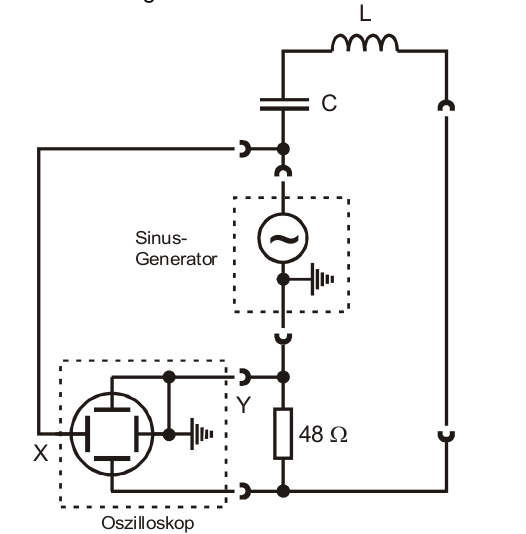
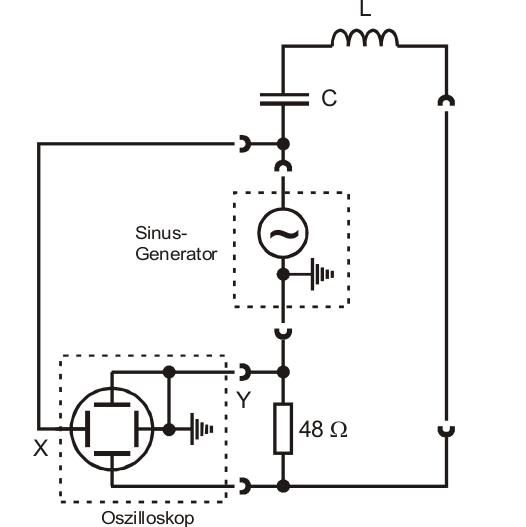
Bilder bearbeitet

diff --git a/Protokoll355.tex b/Protokoll355.tex
@@ -64,16 +64,37 @@ untersucht werden. Zusätzlich wird angenommen, dass sich die Frequenzen $\nu_+$
 
 \section{Aufbau und Durchf\"{u}hrung}
 \subsection{Vorbereitungen}
-Vor Beginn der Messungen müssen die Resoanzfrequnezen beider Schwinkreise aufeinander abgestimmt werden. Dazu wird die Schaltung wie in abbildung \ref{abb1} gezeigt aufgebaut. In einem der Kreise ein Kondensator mit variabler Kapazität verbaut. Mit dem Sinusgenerator wird nun der Kreis mit konstanter Kapazi\"at angeregt. Zunächst wird mit dem Oszilloskop im YT-Betrieb die Frequenz ermittelt bei der die gemessene Spannung $U_R$ maximal wird. Dann wird das Oszilloskop in den XY-Modus umgeschaltet die Resonanzfrequnz $\nu_{res}$ bestimmt. Diese zeichnet sich dadurch aus, dass $U_R$ und die Generatorspannung $U_0$ in Phase liegen und daher die angezeigte Lissajouz-Figur eine Gerade ist. Danach wird der Sinusgenerator an den zweiten Teil des Schwingkreises angeschlossen und mit der Frequenz $\nu_{res}$ angeregt. Nun wird auch dieser Kreis durch Verändern der variablen Kapazität in Resonanz gebracht. Dazu werden wie zuvor Lissajouz-figuren verwendet. 
+Vor Beginn der Messungen müssen die Resoanzfrequnezen beider Schwinkreise aufeinander abgestimmt werden. Dazu wird die Schaltung wie in abbildung \ref{abb1} gezeigt aufgebaut.
+\begin{figure}[htp]
+\centering
+\includegraphics[scale=0.5]{Abb/abb1.png}
+\caption{Schaltung zur Kalibrierung der Schwingkriese}
+\label{abb1}
+\end{figure}
+In einem der Kreise ein Kondensator mit variabler Kapazität verbaut. Mit dem Sinusgenerator wird nun der Kreis mit konstanter Kapazi\"at angeregt. Zunächst wird mit dem Oszilloskop im YT-Betrieb die Frequenz ermittelt bei der die gemessene Spannung $U_R$ maximal wird. Dann wird das Oszilloskop in den XY-Modus umgeschaltet die Resonanzfrequnz $\nu_{res}$ bestimmt. Diese zeichnet sich dadurch aus, dass $U_R$ und die Generatorspannung $U_0$ in Phase liegen und daher die angezeigte Lissajouz-Figur eine Gerade ist. Danach wird der Sinusgenerator an den zweiten Teil des Schwingkreises angeschlossen und mit der Frequenz $\nu_{res}$ angeregt. Nun wird auch dieser Kreis durch Verändern der variablen Kapazität in Resonanz gebracht. Dazu werden wie zuvor Lissajouz-figuren verwendet. 
 \subsection{Messung vom Schwebungs- und Schwingungsfrquenz}
-Für diesen Versuchsteil wird die Schaltung wie in Abbildung \ref{abb2} aufgebaut. Der linke Schwingkreis wird durch eine Rechteckspannung zu Schwingungen angeregt. Mit dem Oszilloskop wird nun die am Widerstand $R_??$ abfallende Spannung gemessen. So kann der im rechten Schwingkreis fließende Strom bestimmt. Bei verschieden Koppelkapazitäten $C_K$ wird nun das Verhältnis von Schwingungs- und Schwebungsfrequenz bestimmt. Dazu wird die Zahl $n$ der Schwingungsmaxima in einer Schwebungsperiode bestimmt. Es gilt:
+Für diesen Versuchsteil wird die Schaltung wie in Abbildung \ref{abb2} aufgebaut.
+\begin{figure}[h!]
+\centering
+\includegraphics[scale=0.5]{Abb/abb2.png}
+\caption{Schaltung zur Messung des Verhältnisses von Schwebungs- zu Schwingungfrequenz }
+\label{abb2}
+\end{figure}
+ Der linke Schwingkreis wird durch eine Rechteckspannung zu Schwingungen angeregt. Mit dem Oszilloskop wird nun die am Widerstand $R$ abfallende Spannung gemessen. So kann der im rechten Schwingkreis fließende Strom bestimmt. Bei verschieden Koppelkapazitäten $C_K$ wird nun das Verhältnis von Schwingungs- und Schwebungsfrequenz bestimmt. Dazu wird die Zahl $n$ der Schwingungsmaxima in einer Schwebungsperiode bestimmt. Es gilt:
 \begin{equation}
 \frac{\nu_{Schwingung}}{\nu_{Schwebung}} = n
 \end{equation}
 \subsection{Messung der Frequenzen der Fundamentalschwingungen}
-Des Weiteren sollen die Frequenzen $\nu_-$ und $\nu_+$ bestimmt werden. Diese zeichen sich dadurch aus, dass die Phasenverschiebung zwischen der Errgerspannung und dem im Sekundärkreis fließenden Stroms $0$ oder $\pi$ beträgt. Die oben Verwendete Schaltung wird nun mit einer Sinusspannung angeregt und die Generator auf den zweiten Kanal des Oszilloskops gelegt. So kann die Phasenbeziehung von $I$ und $U_0$ mit Hilfe von Lissajouz-Figuren untersucht werden. So werden $\nu_+$ und $\nu_-$ in Abhängikeit von $C_K$ bestimmt.
+Des Weiteren sollen die Frequenzen $\nu_-$ und $\nu_+$ bestimmt werden. Diese zeichen sich dadurch aus, dass die Phasenverschiebung zwischen der Errgerspannung und dem im Sekundärkreis fließenden Stroms $0$ oder $\pi$ beträgt. Die oben Verwendete Schaltung wird nun mit einer Sinusspannung angeregt und die Generator auf den zweiten Kanal des Oszilloskops gelegt (siehe Abb. \ref{abb3}).
+\begin{figure}[h!]
+\centering
+\includegraphics[scale=0.5]{Abb/abb3.png}
+\caption{Schaltung zur Messung der Frequenzen der Fundamentalschwingungen}
+\label{abb3}
+\end{figure}
+ So kann die Phasenbeziehung von $I$ und $U_0$ mit Hilfe von Lissajouz-Figuren untersucht werden. So werden $\nu_+$ und $\nu_-$ in Abhängikeit von $C_K$ bestimmt.
 \subsection{Messung des Stroms in Abhängigkeit von der Erregerfrequenz}
-Um den Verlauf des Stroms $I$ im Sekundärkreis bei in Abhängigkeit von der Erregerfrequenz darzustellen, wird die Schaltung wie in Abbildung \ref{wobbel} aufgebaut. Der Funktionsgenerator arbeitet im Sweep-Betreib, dass heißt die Frequenz der Errgerspannung ist nicht mehr konstant, sondern steigt in der Zeit$\Delta t = ...\,s$ von $\nu_0 = ..\,Hz$ auf $\nu_1 = ..\,Hz$. Mit der Verlauf der am Widertsand abfallenden spannung gemessen werden. Dabei wird die Zeitbasis des Oszilloskops so eingestellt, dass ein vollständiger Sweep auf dem Schirm zu sehen ist. Anfang und Ende dieses Zyklus entsprechen den Frequenzen $\nu_0$ und $\nu_1$.     
+Um den Verlauf des Stroms $I$ im Sekundärkreis bei in Abhängigkeit von der Erregerfrequenz darzustellen, wird die Schaltung wie in Abbildung \ref{abb1} aufgebaut. Mit dem Unterschied, dass der Funktionsgenerator im Sweep-Betreib arbeitet. Dies bedeutet, dass die Frequenz der Errgerspannung nicht mehr konstant ist, sondern steigt in der Zeit $\Delta t = ...\,s$ von $\nu_0 = ..\,Hz$ auf $\nu_1 = ..\,Hz$. Mit der Verlauf der am Widertsand abfallenden spannung gemessen werden. Dabei wird die Zeitbasis des Oszilloskops so eingestellt, dass ein vollständiger Sweep auf dem Schirm zu sehen ist. Anfang und Ende dieses Zyklus entsprechen den Frequenzen $\nu_0$ und $\nu_1$.     
 
 
 
@@ -91,10 +112,15 @@ Die Perioden pro Schwebungsperiode wurden so genau wie möglich abgelesen. Der F
  Zur
 \subsection{Messung des Stroms in Abhängigkeit von der Erregerfrequenz}
 
-\section{Literatur- und Abbildungsverzeichnis}
+\section{Abbildungsverzeichnis}
 \begin{itemize}
-\item $[1]$:Quelle
+\item Abb. 1: entommen aus [1]
+\item Abb. 2 und 3: entommen aus [1] und geringfügig bearbeitet 
 \end{itemize}
+\section{Quellen}
+\begin{enumerate}[{[}1{]}]
+\item Anleitung: \textit{Versuch Nr.355 Gekoppelte Schwingkreise}, TU Dortmund 
+\end{enumerate}
 \section{Anhang}
 \begin{itemize}
 \item Tabellen
